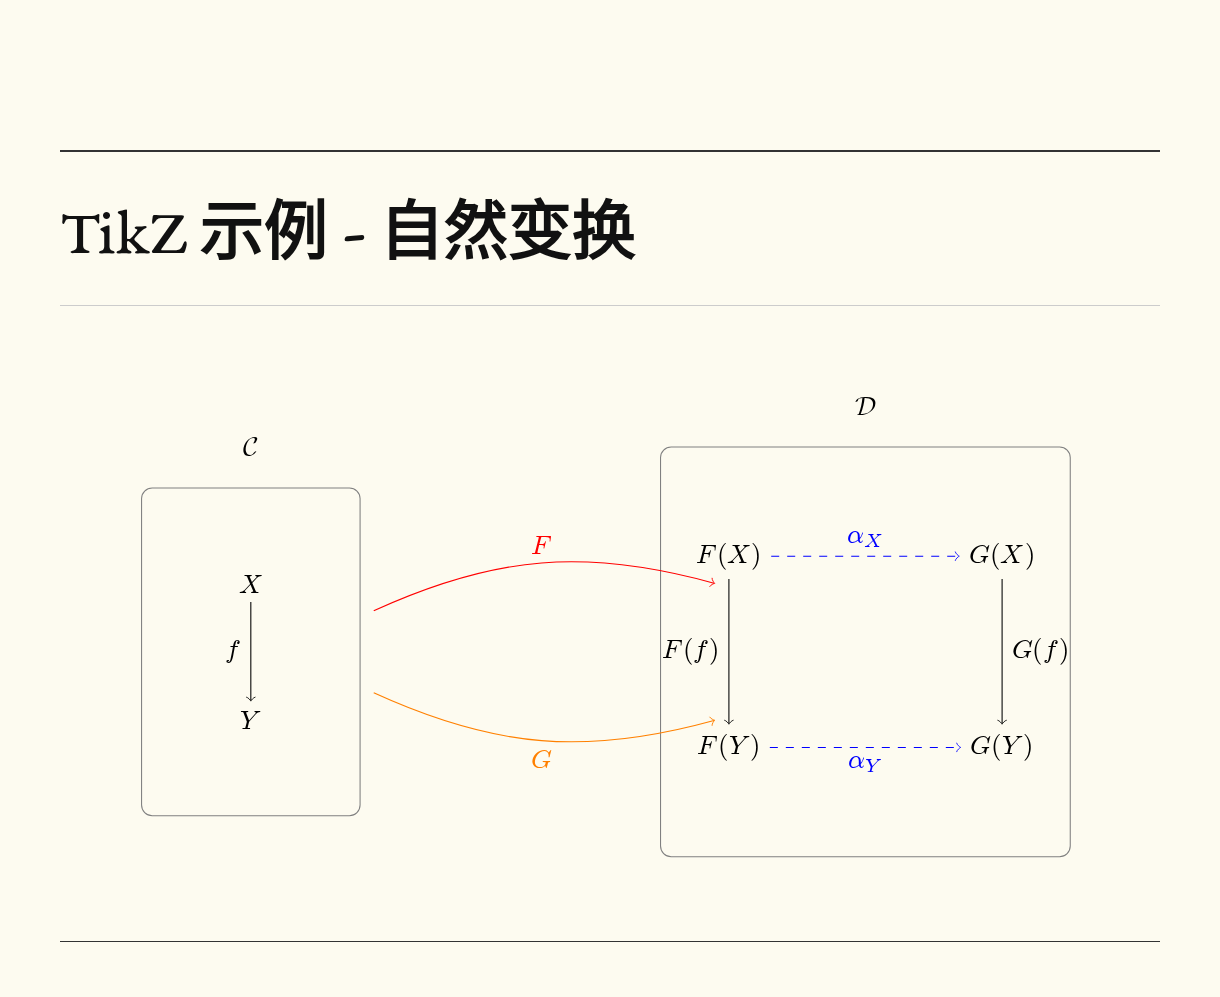
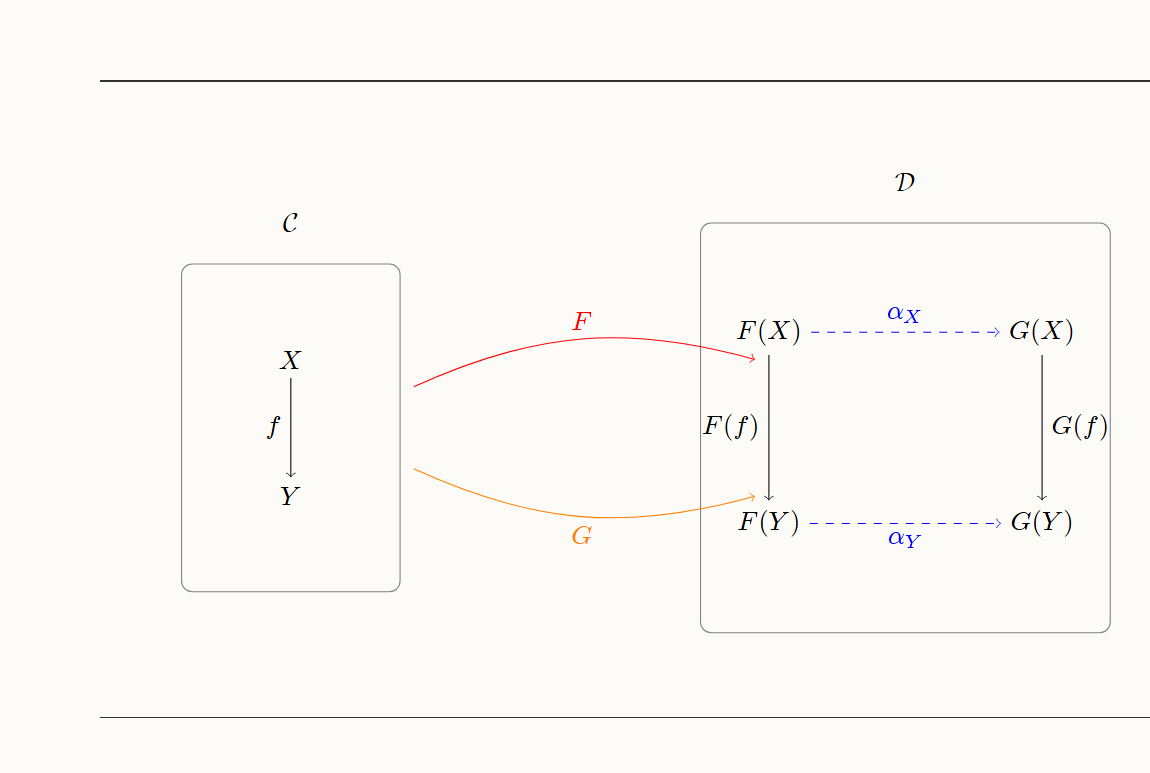
更新README和示例图 - CDN版本说明

diff --git a/generate_example.py b/generate_example.py
@@ -1,178 +1,83 @@
-"""生成 TikZ 示例图 - 独立脚本"""
+"""生成TikZ示例图"""
 import asyncio
 import re
 import uuid
 from pathlib import Path
-
-import markdown
 from playwright.async_api import async_playwright
-
 
 PLUGIN_DIR = Path(__file__).parent
 
-
-def convert_tikz(text: str) -> str:
-    """将 tikzpicture/tikzcd 转换为 tikzjax 格式"""
-    def convert_block(match):
-        tikz_code = match.group(0)
-        packages = ['amsfonts', 'amssymb']
-        tikzlibraries = []
-
-        if 'Stealth' in tikz_code or 'Latex' in tikz_code:
-            tikzlibraries.append('arrows.meta')
-
-        # tikzcd 需要 tikz-cd 包
-        if 'tikzcd' in tikz_code:
-            packages.append('tikz-cd')
-
-        usepackages = '\n'.join([f'\\usepackage{{{pkg}}}' for pkg in packages])
-        usetikzlibs = ''
-        if tikzlibraries:
-            usetikzlibs = f"\\usetikzlibrary{{{','.join(tikzlibraries)}}}"
-
-        full_tikz = f"""{usepackages}
-{usetikzlibs}
-\\begin{{document}}
-{tikz_code}
-\\end{{document}}"""
-
-        return f'<div class="tikz-diagram"><script type="text/tikz">\n{full_tikz}\n</script></div>'
-
-    # 匹配 tikzpicture
-    text = re.sub(r'\\begin\{tikzpicture\}[\s\S]*?\\end\{tikzpicture\}', convert_block, text)
-    # 匹配 tikzcd
-    text = re.sub(r'\\begin\{tikzcd\}[\s\S]*?\\end\{tikzcd\}', convert_block, text)
-    return text
-
-
-def convert_markdown_to_html(md_text: str) -> str:
-    """将 Markdown 转换为 HTML"""
-    # 保护数学公式
-    math_blocks = []
-    def sub_math(m):
-        placeholder = f"MATHBLOCK{len(math_blocks)}MATHBLOCK"
-        math_blocks.append(m.group(0))
-        return placeholder
-
-    md_text = re.sub(r'\$\$.*?\$\$', sub_math, md_text, flags=re.DOTALL)
-    md_text = re.sub(r'\$.*?\$', sub_math, md_text)
-
-    # 转换 TikZ
-    md_text = convert_tikz(md_text)
-
-    # 转换 Markdown
-    html_body = markdown.markdown(md_text, extensions=['fenced_code', 'tables'])
-
-    # 恢复数学公式
-    for i, block in enumerate(math_blocks):
-        html_body = html_body.replace(f"MATHBLOCK{i}MATHBLOCK", block)
-
-    # 读取模板
-    template_path = PLUGIN_DIR / "templates" / "template.html"
-    with open(template_path, "r", encoding="utf-8") as f:
-        html_template = f.read()
-
-    return html_template.replace("{{CONTENT}}", html_body)
-
-
-async def render_to_image(content: str, output_path: Path):
-    """渲染内容为图片"""
-    html = convert_markdown_to_html(content)
-
-    # 保存临时 HTML
-    temp_dir = PLUGIN_DIR / "temp"
-    temp_dir.mkdir(exist_ok=True)
-    tmp_path = temp_dir / f"temp_{uuid.uuid4().hex[:8]}.html"
-
-    with open(tmp_path, 'w', encoding='utf-8') as f:
-        f.write(html)
-
-    print(f"HTML 临时文件: {tmp_path}")
-
-    async with async_playwright() as p:
-        browser = await p.chromium.launch(
-            headless=True,
-            args=['--disable-web-security', '--allow-file-access-from-files']
-        )
-        page = await browser.new_page(viewport={'width': 1150, 'height': 2000})
-
-        await page.goto(f"file://{tmp_path}", wait_until='domcontentloaded', timeout=60000)
-
-        # 等待 MathJax
-        try:
-            await page.wait_for_function("() => window.mathJaxReady === true", timeout=10000)
-            print("MathJax 渲染完成")
-        except:
-            print("MathJax 等待超时")
-
-        # 等待 TikZ
-        tikz_count = await page.evaluate("() => document.querySelectorAll('.tikz-diagram').length")
-        print(f"TikZ 容器数量: {tikz_count}")
-
-        if tikz_count > 0:
-            try:
-                await page.wait_for_function("""() => {
-                    const svg = document.querySelector('.tikz-diagram svg');
-                    if (!svg) return false;
-                    return svg.querySelectorAll('path, line, text').length > 0;
-                }""", timeout=30000)
-                print("TikZ 渲染完成")
-                await asyncio.sleep(2)
-            except:
-                print("TikZ 等待超时")
-
-        height = await page.evaluate("document.body.scrollHeight")
-        await page.set_viewport_size({'width': 1150, 'height': height})
-
-        await page.screenshot(path=str(output_path), full_page=True)
-        print(f"截图已保存: {output_path}")
-
-        await browser.close()
-
-    tmp_path.unlink(missing_ok=True)
-
-
-async def main():
-    tikz_content = r"""## TikZ 示例 - 自然变换
-
-\begin{tikzpicture}[scale=1.8]
-  % 左侧范畴 C
+tikz_content = r"""\begin{tikzpicture}[scale=1.8]
   \draw[gray, rounded corners] (-0.8,-1.2) rectangle (0.8,1.2);
   \node at (0,1.5) {$\mathcal{C}$};
   \node (X) at (0,0.5) {$X$};
   \node (Y) at (0,-0.5) {$Y$};
   \draw[->] (X) -- (Y) node[midway,left] {$f$};
 
-  % 右侧范畴 D
   \draw[gray, rounded corners] (3,-1.5) rectangle (6,1.5);
   \node at (4.5,1.8) {$\mathcal{D}$};
 
-  % F 映射的对象
   \node (FX) at (3.5,0.7) {$F(X)$};
   \node (FY) at (3.5,-0.7) {$F(Y)$};
 
-  % G 映射的对象
   \node (GX) at (5.5,0.7) {$G(X)$};
   \node (GY) at (5.5,-0.7) {$G(Y)$};
 
-  % 态射
   \draw[->] (FX) -- (FY) node[midway,left] {$F(f)$};
   \draw[->] (GX) -- (GY) node[midway,right] {$G(f)$};
   \draw[->, blue, dashed] (FX) -- (GX) node[midway,above] {$\alpha_X$};
   \draw[->, blue, dashed] (FY) -- (GY) node[midway,below] {$\alpha_Y$};
 
-  % 函子箭头
   \draw[->, red, bend left=20] (0.9,0.3) to node[above] {$F$} (3.4,0.5);
   \draw[->, orange, bend right=20] (0.9,-0.3) to node[below] {$G$} (3.4,-0.5);
-\end{tikzpicture}
-"""
+\end{tikzpicture}"""
 
-    output = PLUGIN_DIR / "examples" / "tikz_example.png"
-    output.parent.mkdir(exist_ok=True)
+template_path = PLUGIN_DIR / "templates" / "template.html"
+with open(template_path, "r", encoding="utf-8") as f:
+    html_template = f.read()
 
-    await render_to_image(tikz_content, output)
-    print(f"完成: {output}")
+# 转换TikZ
+def convert_block(match):
+    tikz_code = match.group(0)
+    full_tikz = f"""\\usepackage{{amsfonts}}
+\\usepackage{{amssymb}}
+\\begin{{document}}
+{tikz_code}
+\\end{{document}}"""
+    return f'<div class="tikz-diagram"><script type="text/tikz">\n{full_tikz}\n</script></div>'
 
+content = re.sub(r'\\begin\{tikzpicture\}[\s\S]*?\\end\{tikzpicture\}', convert_block, tikz_content)
+html = html_template.replace("{{CONTENT}}", content)
+
+async def main():
+    examples_dir = PLUGIN_DIR / "examples"
+    examples_dir.mkdir(exist_ok=True)
+    output_path = examples_dir / "tikz_example.png"
+
+    async with async_playwright() as p:
+        browser = await p.chromium.launch(headless=True)
+        page = await browser.new_page(viewport={'width': 1150, 'height': 2000})
+
+        temp_dir = PLUGIN_DIR / "temp"
+        temp_dir.mkdir(exist_ok=True)
+        tmp_path = temp_dir / f"temp_{uuid.uuid4().hex[:8]}.html"
+
+        with open(tmp_path, 'w', encoding='utf-8') as f:
+            f.write(html)
+
+        await page.goto(f"file://{tmp_path}")
+
+        await page.wait_for_function("() => window.mathJaxReady === true", timeout=10000)
+        await asyncio.sleep(15)
+
+        height = await page.evaluate("document.body.scrollHeight")
+        await page.set_viewport_size({'width': 1150, 'height': height})
+
+        await page.screenshot(path=str(output_path))
+        await browser.close()
+
+        tmp_path.unlink(missing_ok=True)
+        print(f"示例图已生成: {output_path}")
 
 if __name__ == "__main__":
     asyncio.run(main())

diff --git a/README.md b/README.md
@@ -23,12 +23,8 @@ pip install -r requirements.txt
 playwright install chromium
 ```
 
-### 2. MathJax 自动安装
-插件首次加载时会自动下载 MathJax 离线包（约 1.1MB），无需手动操作。
-
-如果自动下载失败，可手动下载：
-1. 访问 https://cdn.jsdelivr.net/npm/mathjax@3/es5/tex-chtml.js
-2. 保存到 `static/mathjax/tex-chtml.js`
+### 2. CDN 资源
+插件使用阿里云 OSS CDN 加载 MathJax、TikZJax 和字体资源，无需额外下载。
 
 ## 特性
 
@@ -37,52 +33,37 @@ playwright install chromium
 - **Markdown 智能预处理** - 自动修复格式问题，确保正确渲染
 - **代码块行号** - 代码块自动显示行号，长代码自动换行
 - **可配置背景色** - 支持自定义模板背景颜色
-- **离线渲染** - MathJax 和 TikZJax 本地运行，无需外部 CDN
+- **CDN 渲染** - 使用阿里云 OSS CDN，插件体积小（约 400KB）
 
 ## 效果展示
 
-### 数学公式
-
-![数学公式示例](examples/math_example.png)
-
-### 代码块
-
-![代码块示例](examples/code_example.png)
-
-### TikZ 图形
+### TikZ 自然变换图
 
 ![TikZ 示例](examples/tikz_example.png)
 
 **TikZ 示例代码：**
 ```latex
-/render
-\begin{tikzpicture}[scale=1.8]
-  % 左侧范畴 C
+/render \begin{tikzpicture}[scale=1.8]
   \draw[gray, rounded corners] (-0.8,-1.2) rectangle (0.8,1.2);
   \node at (0,1.5) {$\mathcal{C}$};
   \node (X) at (0,0.5) {$X$};
   \node (Y) at (0,-0.5) {$Y$};
   \draw[->] (X) -- (Y) node[midway,left] {$f$};
 
-  % 右侧范畴 D
   \draw[gray, rounded corners] (3,-1.5) rectangle (6,1.5);
   \node at (4.5,1.8) {$\mathcal{D}$};
 
-  % F 映射的对象
   \node (FX) at (3.5,0.7) {$F(X)$};
   \node (FY) at (3.5,-0.7) {$F(Y)$};
 
-  % G 映射的对象
   \node (GX) at (5.5,0.7) {$G(X)$};
   \node (GY) at (5.5,-0.7) {$G(Y)$};
 
-  % 态射
   \draw[->] (FX) -- (FY) node[midway,left] {$F(f)$};
   \draw[->] (GX) -- (GY) node[midway,right] {$G(f)$};
   \draw[->, blue, dashed] (FX) -- (GX) node[midway,above] {$\alpha_X$};
   \draw[->, blue, dashed] (FY) -- (GY) node[midway,below] {$\alpha_Y$};
 
-  % 函子箭头
   \draw[->, red, bend left=20] (0.9,0.3) to node[above] {$F$} (3.4,0.5);
   \draw[->, orange, bend right=20] (0.9,-0.3) to node[below] {$G$} (3.4,-0.5);
 \end{tikzpicture}
